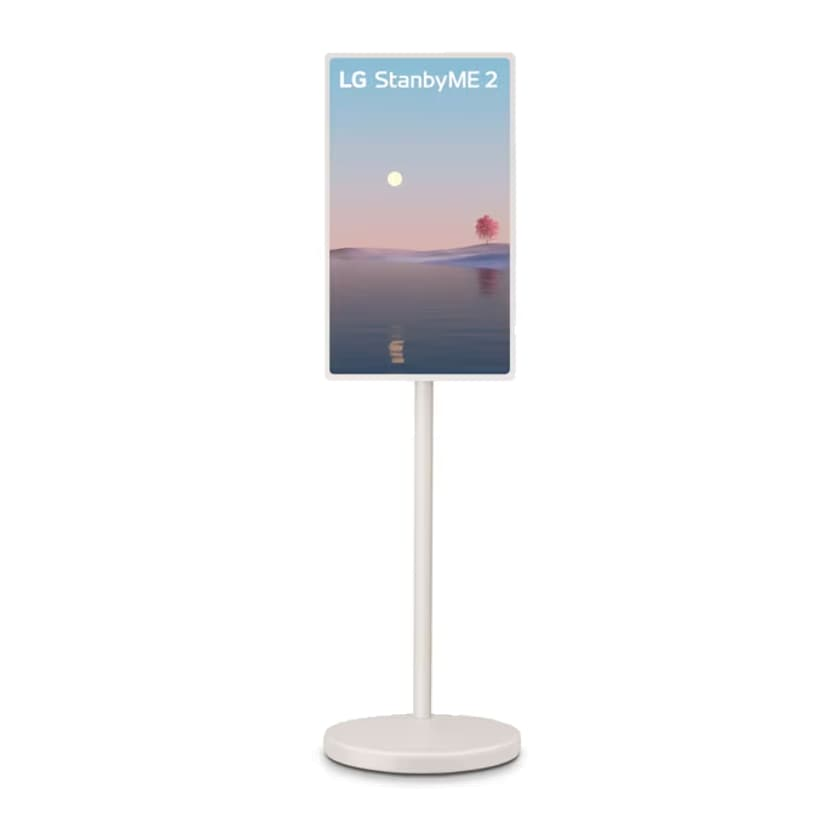
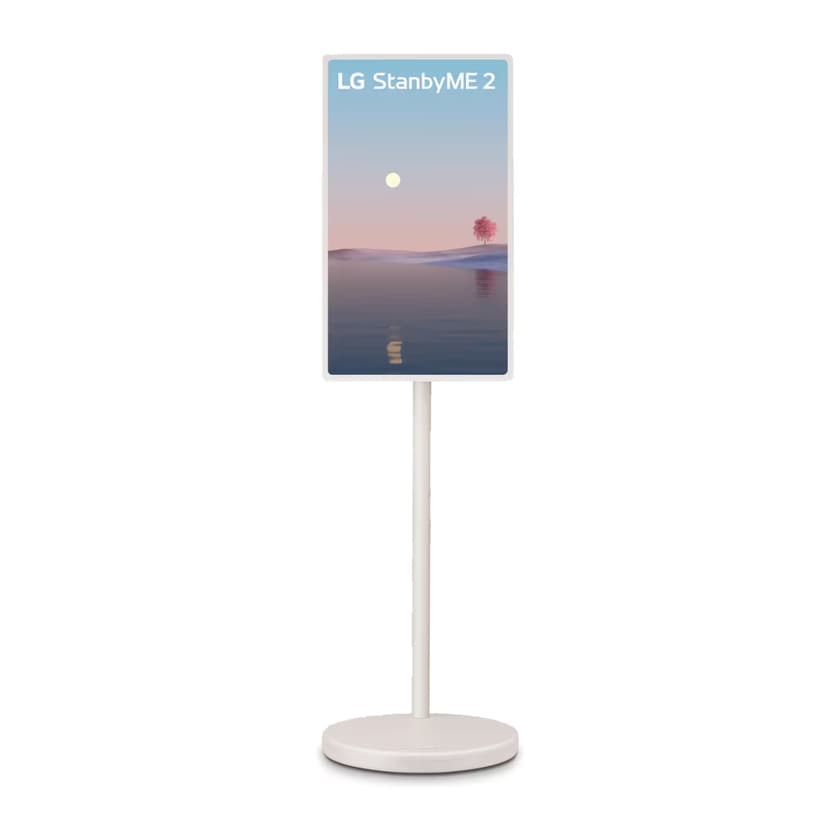
OH: the four TVs' 840 px cutouts rebuilt from LG's 1600 px zoom renditions

diff --git a/docs/lg/lanes/D2.md b/docs/lg/lanes/D2.md
@@ -122,22 +122,23 @@ Every value equals the page's fraction to two decimals. LMH2235ST's "17 13/18"" 
 
 **No record** for the 9 pages that answered 404, or for the rows outside the coordinator's selection (the 25 kitchen packages and OLED65C6PUA), since only `image` would apply to them and `index.json` already serves it. **The dimensions are no longer provisional.**
 
-### 840 renditions for the campaign art (2026-10-02, 20:29 EDT)
+### 840 renditions for the campaign art (2026-10-02, 20:29 EDT; TVs from the zoom rendition at 20:34)
 
 Lane A1's heroes had been drawn from the 420 cutouts scaled 1.5x, and the TVs were soft. There are now 840 × 840 renditions of the **13 products the art places**: the lead products of the 29 pieces in `scripts/demo-kit/configs/oh/art.json` (6 heroes, 13 deals, 7 tiles, 3 banners), with LDNPM654S in place of LDNTH753S as A1's substitution has it:
 
 OLED77G6WUA, OLED65C6PUA, 75MRGB95BUA, 27LX6TYGA, S90TY, M7-P4_H7_W7, WM4000HWA, WM6700HWA, WKE100HWA, the WM4000HWA laundry set, LSGL6335X, LDNPM654S and the LF24Z6530S kitchen package.
 
-- **How they were made.** Each comes from the same cached source as its 420 file, LG's 1100x730 gallery rendition (730 square; 1100x730 for WKE100HWA). Nothing was fetched again. The pixel work is the kit's own (`cutout`, `place`) at the same key tolerance and encoder settings, only at size 840.
+- **How they were made.** The pixel work is the kit's own (`cutout`, `place`) at the config's encoder settings, only at size 840, from two kinds of source.
+  - **The four TVs the art draws large** (OLED77G6WUA, OLED65C6PUA, 75MRGB95BUA, 27LX6TYGA) are drawn from LG's zoom rendition of the same asset as their 420 file (`ecomm-PDPGalleryZoom-1600x1062`). The four requests were made through the kit's library at 20:30 EDT (00:30 UTC on 10-03, so the manifest's `retrieved` reads 2026-10-03), two seconds apart, and are logged. In that rendition the TV is 811–1,034 pixels across, so the 840 file is drawn from more pixels than it shows (scale 0.71–0.91), keyed at the tolerance its own ground needs (1).
+  - **The other nine products** are drawn from the same cached gallery rendition and key tolerance as their 420 file.
 - **Files and records.**
   - `products/<id>.840.webp|png|jpg` sit beside the 420 files.
-  - `MANIFEST.json` section `large` holds 13 rows in the kit's row shape: `id` `<id>.840`, `of` `<id>`, the same source record, and `scale`, how much larger than the source's pixels the product is drawn.
+  - `MANIFEST.json` section `large` holds 13 rows in the kit's row shape: `id` `<id>.840`, `of` `<id>`, the source the file was drawn from (the zoom rendition for the four TVs), and `scale`, how much larger than the source's pixels the product is drawn.
   - `imagery.json` key `large` holds the list and the verdicts.
   - `index.json` offers `products[sku].large = { webp, png, jpg, size: 840 }`, so a page asks for the large rendition and falls back to `src`.
   - The kit's id rule allows no dot, so `fetch-imagery.mjs` does not write these files. A kit rerun through `configs/oh.json` keeps the section, and was checked: 591 kept, `art` and `products` unchanged.
-- **Gate: 13 accept**, checked by eye on a half-size sheet and 1:1 crops of the TV screens, two white appliances and the soundbar, each bound to its WebP's sha256. The 420 file's notes carry over: the shield on the set and the package, the Sound Suite logos, the S90TY tag (A1 erases these in the art). On the TVs, LG's gallery rendition holds the set at under 600 pixels wide, so the 840 draws it about 1.3x larger: clean at 1:1, a little soft at full size, sharp wherever the art draws it at 600 pixels or less. The appliances are drawn 1.04–1.17x larger.
-- **Optional:** LG's zoom rendition (`ecomm-PDPGalleryZoom-1600x1062`, a 1062 square) would give the three TVs native pixels at 840, for three fetches. Not done, because the brief said to re-fetch only where the cache held nothing larger than 420.
-- **Bytes.** The renditions are 1,257,401 bytes: WebP 305,364, PNG 564,651, JPEG 387,386. **The image payload is now 25,982,879 bytes, 24.78 MiB of 25** (the kit's totals, A1's art included, the manifest excluded). That leaves 231,521 bytes. Dropping the 840 JPEGs would free 387,386 more if A1's regenerated slides need the room.
+- **Gate: 13 accept**, checked by eye on a half-size sheet and on 1:1 crops of the TV screens, set beside the earlier gallery-based files: the zoom-based TVs are visibly sharper, with crisp lettering and edges. White bodies are kept and edges intact; each verdict is bound to its WebP's sha256. The 420 file's notes carry over (the shield on the set and the package, the Sound Suite logos, the S90TY tag; A1 erases these in the art). The appliances are drawn 1.04–1.17x their source's pixels.
+- **Bytes.** The renditions are 1,280,322 bytes: WebP 318,782, PNG 565,635, JPEG 395,905. **The image payload is now 26,005,800 bytes, 24.80 MiB of 25** (the kit's totals, A1's art included, the manifest excluded). That leaves 208,600 bytes. All three encodings are kept. Dropping the 840 JPEGs (the page asks for WebP first) would free 395,905 more if A1's regenerated slides need the room.
 
 ### Notes for the lead and the other lanes
 
